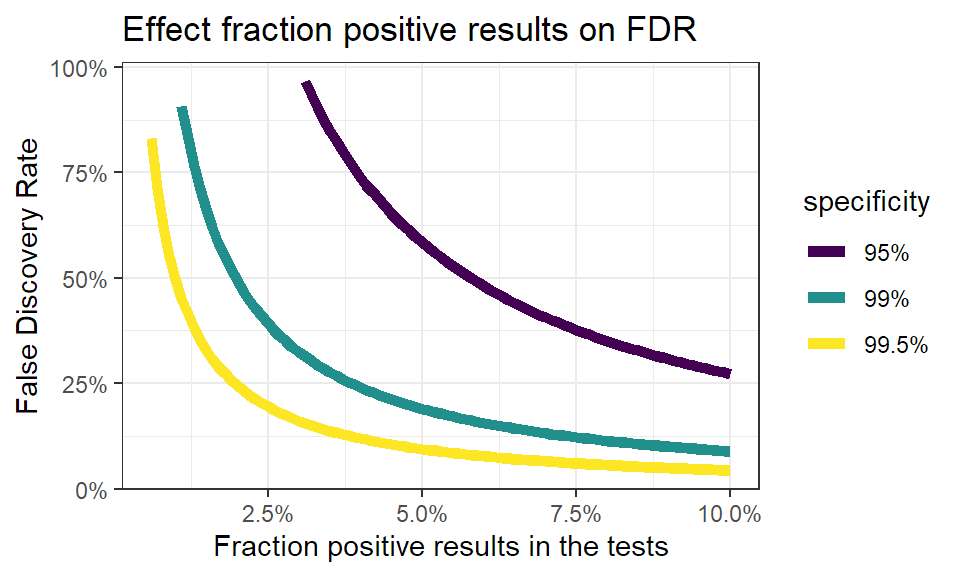
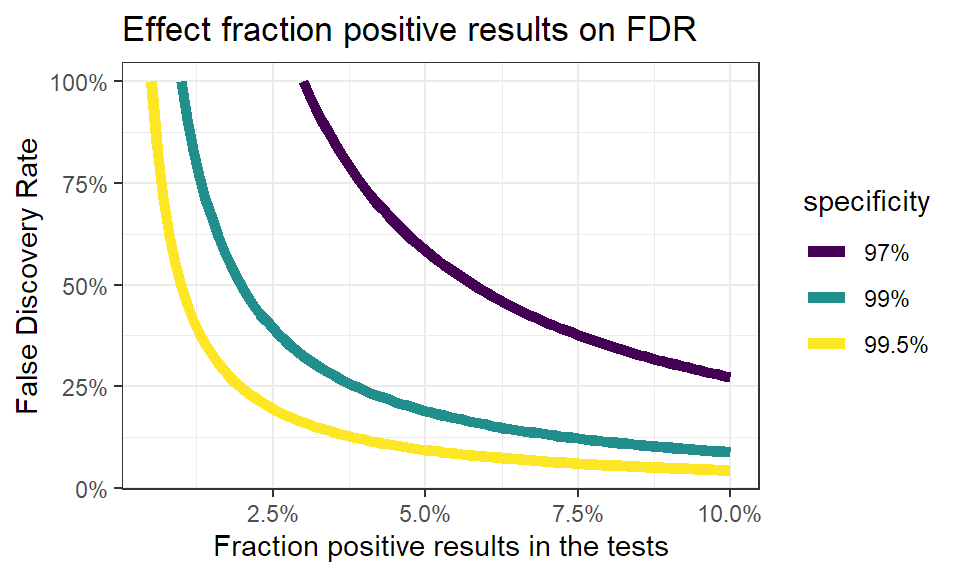
Fixed floating point error and 97% label on plot

diff --git a/docs/FalseDiscoveryRate.html b/docs/FalseDiscoveryRate.html
@@ -375,6 +375,8 @@ P = \displaystyle\frac{N + Sp - 1}{Se + Sp - 1}
         # the proportion of false positives when there&#39;s no
         # infections!
         p[n &lt; (1-sp)] &lt;- NA
+        # get around floating point errors
+        p[round(n,4)== round(1-sp, 4)] &lt;- 0
         p
 }
 calc_fdr &lt;- function(n, sp, se){
@@ -391,7 +393,7 @@ calc_fdr &lt;- function(n, sp, se){
 theseq &lt;- seq(0.005,0.1, by = 0.001)
 pdata &lt;- tibble(
         posrate = rep(theseq, 3),
-        specificity = rep(c(&quot;99.5%&quot;,&quot;99%&quot;,&quot;95%&quot;), 
+        specificity = rep(c(&quot;99.5%&quot;,&quot;99%&quot;,&quot;97%&quot;), 
                           each = length(theseq) ),
         fdr = c(calc_fdr(theseq, 0.995,0.8),
                 calc_fdr(theseq, 0.99, 0.8),
@@ -434,7 +436,6 @@ ggplot(pdata, aes(x = posrate, y = fdr, color = specificity)) +
     ) %&gt;% na.omit()
 
 ggplot(pdata, aes(x = posrate, y = fdr, color = sensitivity)) +
-        geom_path(lwd = 2, lineend = &quot;round&quot;) +
         geom_segment(x = 0, xend = 0.05, y = 0.05, yend = 0.05,
                      col = &quot;red&quot;, linetype = &quot;dashed&quot;) +
         geom_segment(x = 0.05, xend = 0.05, y = 0, yend = 0.05,
@@ -443,6 +444,7 @@ ggplot(pdata, aes(x = posrate, y = fdr, color = sensitivity)) +
                      col = &quot;red&quot;, linetype = &quot;dashed&quot;) +
         geom_segment(x = 0.075, xend = 0.075, y = 0, yend = 0.075,
                      col = &quot;red&quot;, linetype = &quot;dashed&quot;) +
+        geom_path(lwd = 2, lineend = &quot;round&quot;) +
         scale_x_continuous(labels = scales::percent) +
         scale_y_continuous(labels = scales::percent) +
         labs(x = &quot;Fraction positive results in the tests&quot;,
